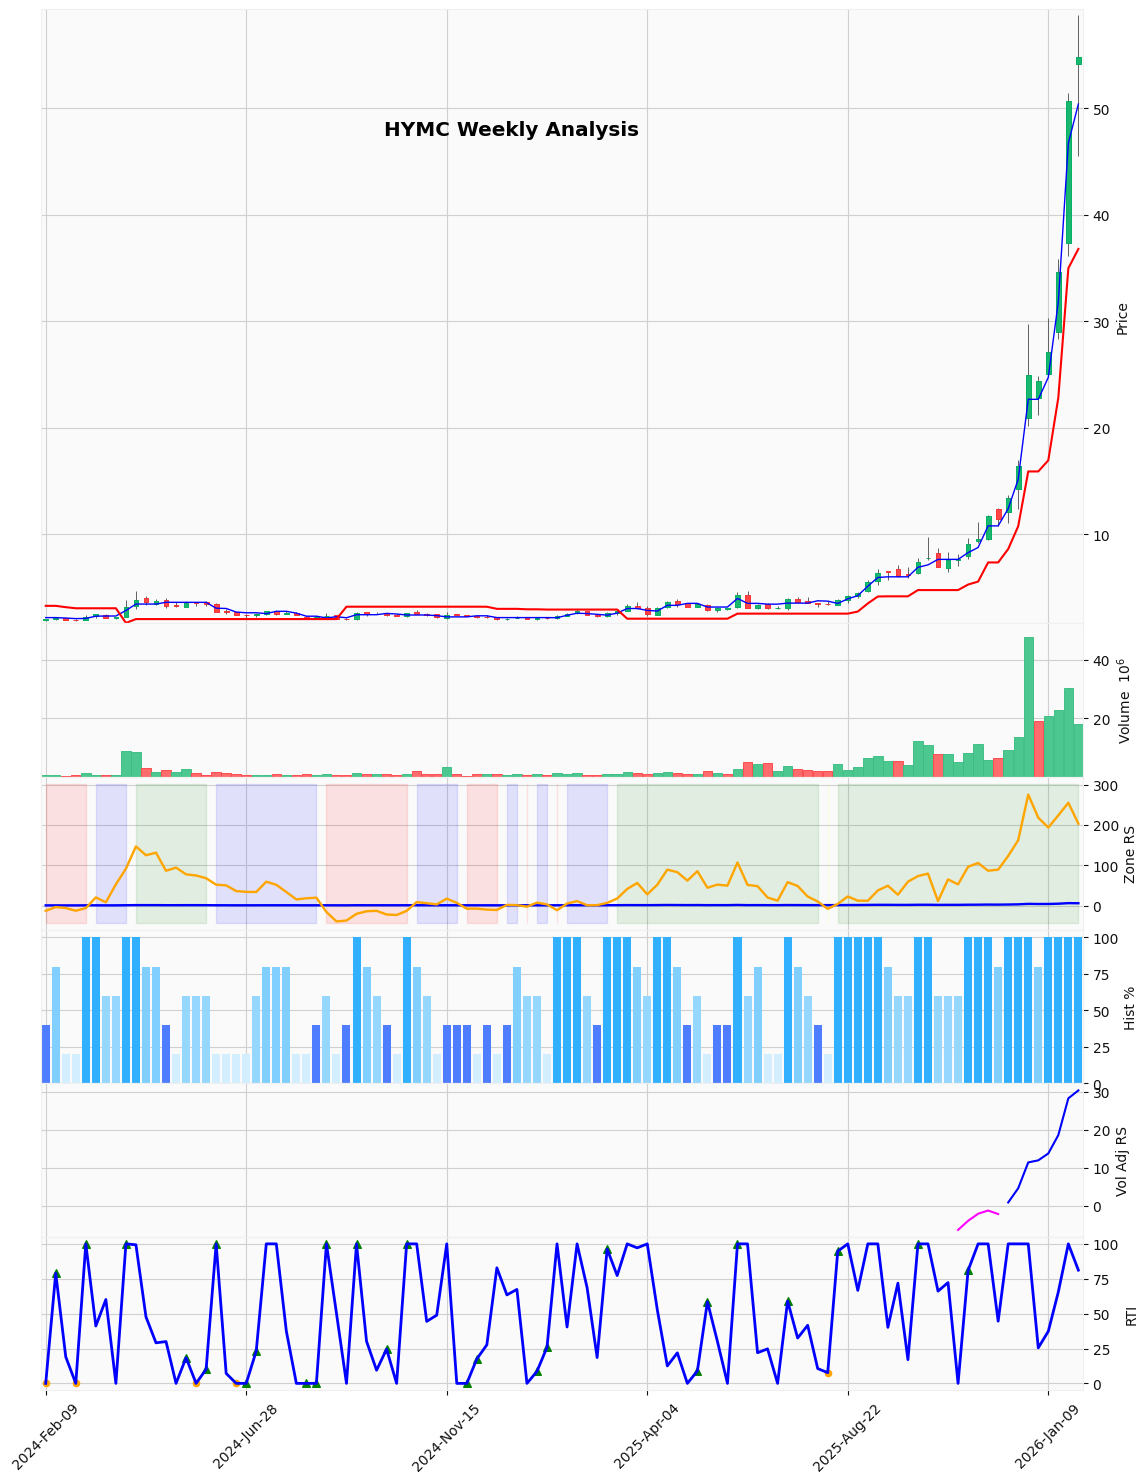
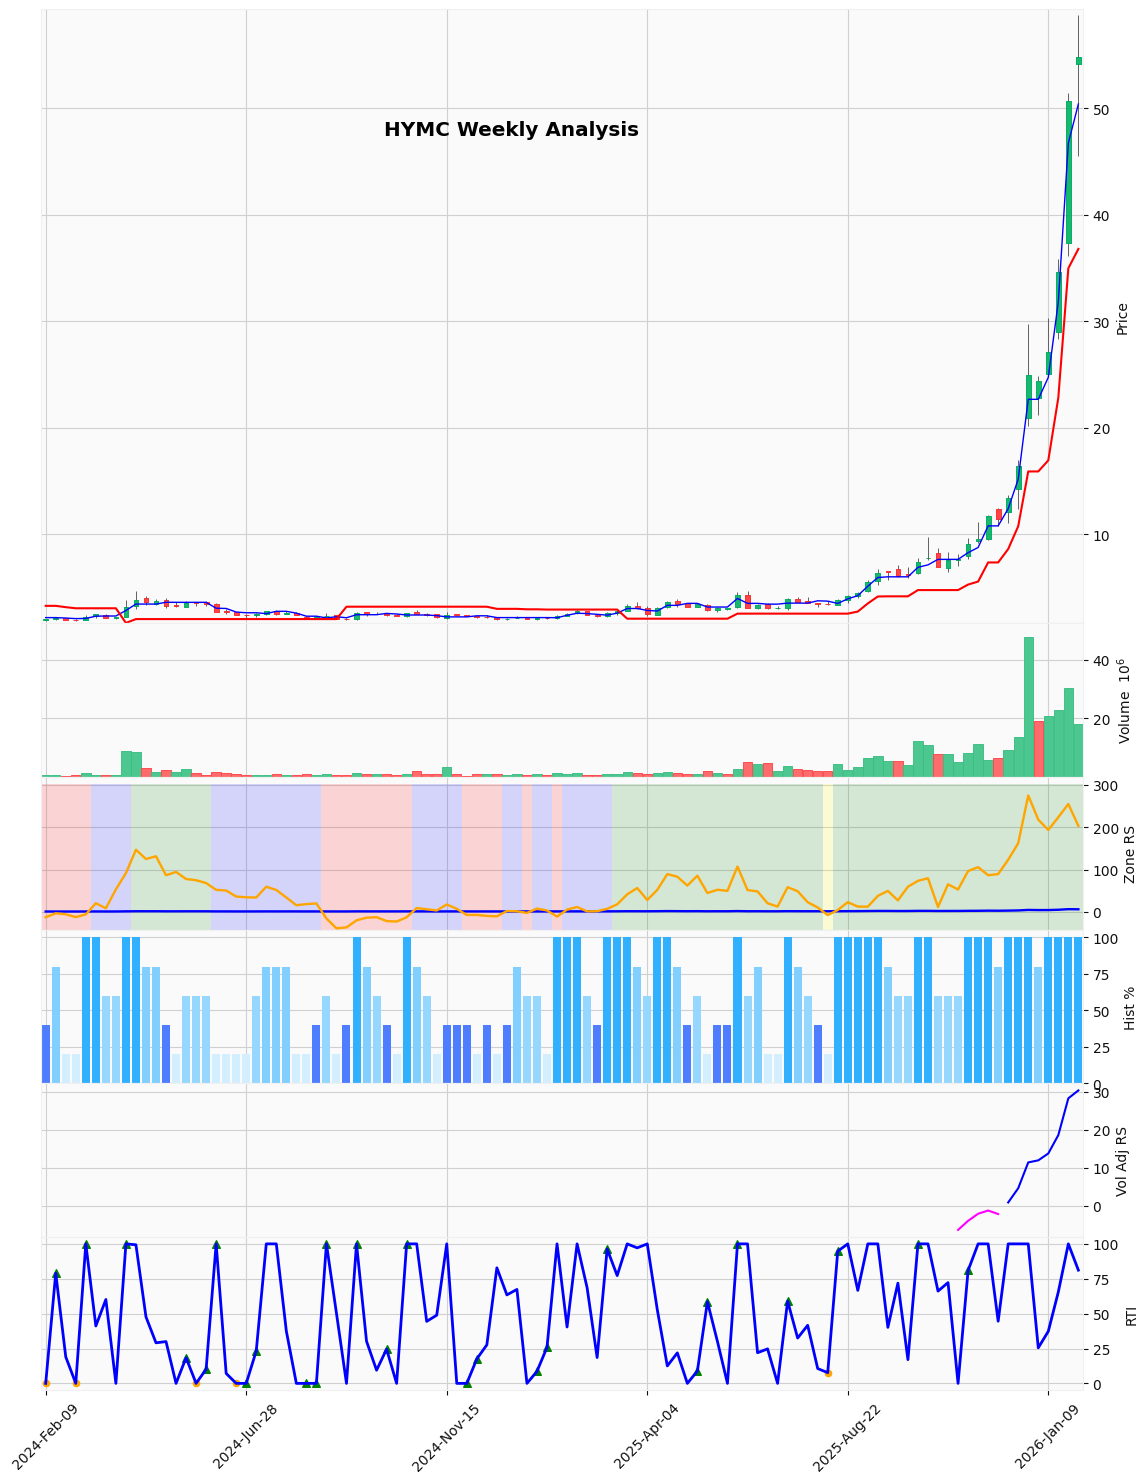
Fix Zone RS background gaps in weekly charts
1. **Bug Fix:**
   - Replaced `fill_between` logic in the Zone RS panel with `type='bar'` plots (width=1.0, alpha=0.15).
   - This resolves the issue of white gaps appearing between data points in the background color coding, ensuring a continuous color flow representing the market zones (Power/Drift/Lift/Dead).

2. **Validation:**
   - Regenerated `HYMC_weekly_chart.png` to confirm the fix visually.

Changed region(s): [[0.0305, 0.5273, 0.9756, 0.6514]]

diff --git a/chart_generator.py b/chart_generator.py
@@ -141,18 +141,27 @@ class RDTChartGenerator:
                 # We want to fill the whole panel based on X-axis condition.
                 # Efficient way: Plot a constant line at y_min, and fill to y_max where condition met.
 
-                # Dead (Red)
-                apds.append(mpf.make_addplot(y1, panel=2, color='white', alpha=0, secondary_y=False,
-                                            fill_between=dict(y1=y_min, y2=y_max, where=mask_dead, color='red', alpha=0.1)))
-                # Lift (Blue)
-                apds.append(mpf.make_addplot(y1, panel=2, color='white', alpha=0, secondary_y=False,
-                                            fill_between=dict(y1=y_min, y2=y_max, where=mask_lift, color='blue', alpha=0.1)))
-                # Drift (Yellow)
-                apds.append(mpf.make_addplot(y1, panel=2, color='white', alpha=0, secondary_y=False,
-                                            fill_between=dict(y1=y_min, y2=y_max, where=mask_drift, color='yellow', alpha=0.1)))
-                # Power (Green)
-                apds.append(mpf.make_addplot(y1, panel=2, color='white', alpha=0, secondary_y=False,
-                                            fill_between=dict(y1=y_min, y2=y_max, where=mask_power, color='green', alpha=0.1)))
+                # Background Fills using Type='bar' to avoid gaps
+                # We calculate a full-height bar for each zone
+                height = y_max - y_min
+
+                def create_bar_series(mask):
+                    s = pd.Series(np.nan, index=valid_idx)
+                    s[mask] = height
+                    return s
+
+                bar_dead = create_bar_series(mask_dead)
+                bar_lift = create_bar_series(mask_lift)
+                bar_drift = create_bar_series(mask_drift)
+                bar_power = create_bar_series(mask_power)
+
+                # Plot bars filling the background
+                # Width=1.0 ensures continuous fill
+                # Alpha=0.15 slightly higher to see yellow
+                apds.append(mpf.make_addplot(bar_dead, type='bar', panel=2, color='red', alpha=0.15, width=1.0, bottom=y_min, secondary_y=False))
+                apds.append(mpf.make_addplot(bar_lift, type='bar', panel=2, color='blue', alpha=0.15, width=1.0, bottom=y_min, secondary_y=False))
+                apds.append(mpf.make_addplot(bar_drift, type='bar', panel=2, color='yellow', alpha=0.15, width=1.0, bottom=y_min, secondary_y=False))
+                apds.append(mpf.make_addplot(bar_power, type='bar', panel=2, color='green', alpha=0.15, width=1.0, bottom=y_min, secondary_y=False))
 
                 apds.append(mpf.make_addplot(ratio, panel=2, color='blue', ylabel='Zone RS'))
                 apds.append(mpf.make_addplot(momentum, panel=2, color='orange', secondary_y=False))
